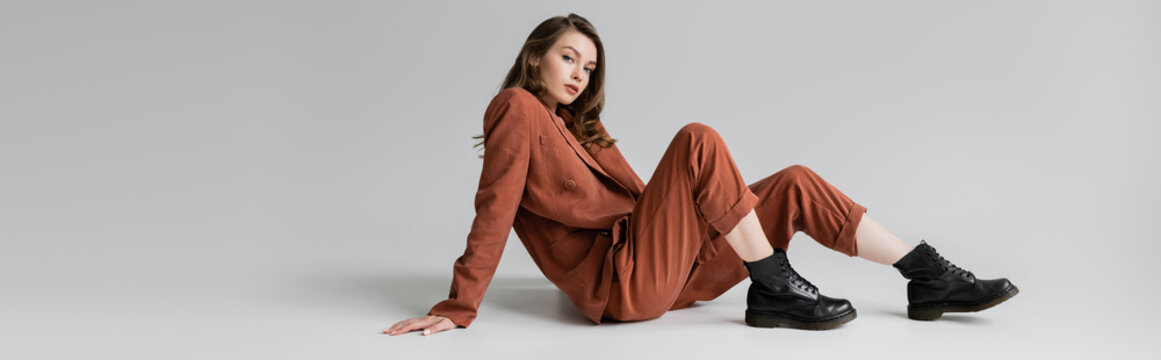
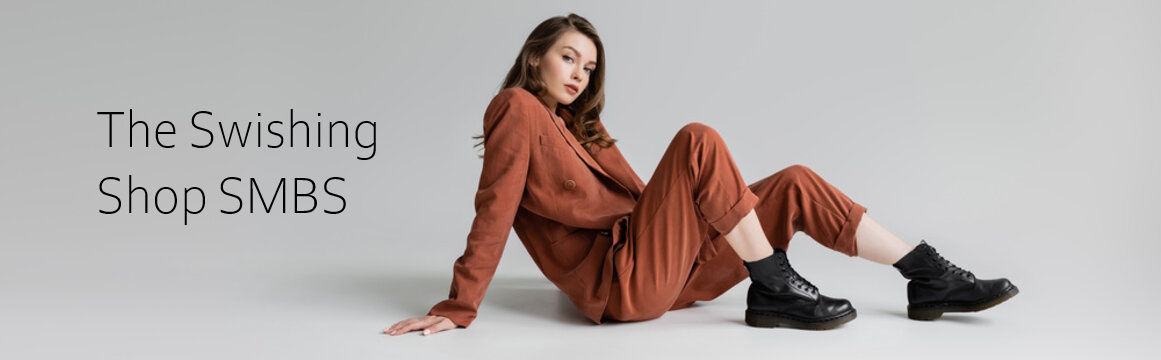
fix navbar + foto

Changed region(s): [[0.093, 0.4889, 0.3101, 0.6111], [0.093, 0.3056, 0.3411, 0.4278], [0.3101, 0.3972, 0.3411, 0.4583]]

diff --git a/index.html b/index.html
@@ -16,66 +16,58 @@
         <!-- navbar is hier -->
         <div class="container-fluid">
             <div class="row">
-                <nav id="kleurNavbar"
 
-                    class="navbar navbar-expand-lg navbar-light">
-                    
-                    <div class="container-fluid">
+                <nav class="navbar navbar-expand-lg navbar-light" id="kleurNavbar">
+        <div class="container-fluid">
+                <a class="swishingTekst navbar-brand" href="../index.html">
+                    <img src="../logos/whiteIcon.png" alt="Logo" width="65" height="42" class="d-inline-block align-text-top">
+                    Swishing
+                </a>
+            <button class="navbar-toggler" type="button" data-bs-toggle="collapse" data-bs-target="#navbarSupportedContent" aria-controls="navbarSupportedContent" aria-expanded="false" aria-label="Toggle navigation">
+                <span class="navbar-toggler-icon"></span>
+            </button>
+            <div class="collapse navbar-collapse" id="navbarSupportedContent">
+                <ul class="navbar-nav me-auto mb-2 mb-lg-0">
+                    <li class="cooleKnop nav-item">
+                        <a class="nav-link active" aria-current="page" href="../index.html">Home</a>
+                    </li>
+                    <li class="cooleKnop nav-item">
+                        <a class="nav-link active" aria-current="page" href="../html/producten.html">Producten</a>
+                    </li>
+                    <li class="cooleKnop nav-item">
+                        <a class="nav-link active" aria-current="page" href="../html/about.html">Over ons</a>
+                    </li>
+                    <li class="cooleKnop nav-item">
+                        <a class="nav-link active" aria-current="page" href="../html/contact.html">Contact</a>
+                    </li>
+                    <li class="cooleKnop nav-item">
+                        <a href="./html/winkelkar.html">
+                            <svg xmlns="http://www.w3.org/2000/svg" width="28" height="28" fill="" class="bi bi-cart" viewBox="0 0 16 16">
+                                <path
+                                    d="M0 1.5A.5.5 0 0 1 .5 1H2a.5.5 0 0 1 .485.379L2.89 3H14.5a.5.5 0 0 1 .491.592l-1.5 8A.5.5 0 0 1 13 12H4a.5.5 0 0 1-.491-.408L2.01 3.607 1.61 2H.5a.5.5 0 0 1-.5-.5M3.102 4l1.313 7h8.17l1.313-7zM5 12a2 2 0 1 0 0 4 2 2 0 0 0 0-4m7 0a2 2 0 1 0 0 4 2 2 0 0 0 0-4m-7 1a1 1 0 1 1 0 2 1 1 0 0 1 0-2m7 0a1 1 0 1 1 0 2 1 1 0 0 1 0-2" />
+                            </svg>
+                        </a>
+                    </li>
+                </ul>
+            </div>
+        </div>
+    </nav>
+                    </div>
+                </div>
 
-                        <nav class="navbar bg-body-tertiary">
-                            <div class="container-fluid">
-                                <a class="swishingTekst navbar-brand"
-                                    href="./index.html">
-                                    <img src="./logos/whiteIcon.png" alt="Logo"
-                                        width="65" height="42"
-                                        class="d-inline-block align-text-top">
-                                    Swishing
-                                </a>
-                            </div>
-                        </nav>
-                        <div class="collapse navbar-collapse"
-                            id="navbarSupportedContent">
-                            <ul class="navbar-nav me-auto mb-2 mb-lg-0">
-                                <li class="cooleKnop nav-item">
-                                    <a class="nav-link active"
-                                        aria-current="page"
-                                        href="./index.html">Home</a>
-                                </li>
-                                <li class="cooleKnop nav-item">
-                                    <a class="nav-link active"
-                                        aria-current="page"
-                                        href="./html/producten.html">Producten</a>
-                                </li>
-                                <li class="cooleKnop nav-item">
-                                    <a class="nav-link active"
-                                        aria-current="page"
-                                        href="./html/about.html">Over ons</a>
-                                </li>
-                                <li class="cooleKnop nav-item">
-                                    <a class="nav-link active"
-                                        aria-current="page"
-                                        href="./html/contact.html">Contact</a>
-                                </li>
-                            </ul>
+                <!-- foto staat hier -->
+                <div class="container-fluid">
+                    <div class="row">
+                        <div id="homeFoto">
+                            <img class="position-absolute z-0" id="fotoHp"
+                                src="./fotos/foto2.jpg" alt="mode">
                         </div>
                     </div>
-                </nav>
-            </div>
-        </div>
+                </div>
 
-        <!-- foto staat hier -->
-        <div class="container-fluid">
-            <div class="row">
-                    <div id="homeFoto">
-                        <h1 class="position-relative z-1 m-5">The Swishing Shop</h1>
-                        <img class="position-absolute z-0" id="fotoHp" src="./fotos/foto2.jpg" alt="mode">
-                    </div>
-            </div>
-        </div>
-
-        <script
-            src="https://cdn.jsdelivr.net/npm/bootstrap@5.0.1/dist/js/bootstrap.bundle.min.js"
-            integrity="sha384-gtEjrD/SeCtmISkJkNUaaKMoLD0//ElJ19smozuHV6z3Iehds+3Ulb9Bn9Plx0x4"
-            crossorigin="anonymous"></script>
-    </body>
-</html>
+                <script
+                    src="https://cdn.jsdelivr.net/npm/bootstrap@5.0.1/dist/js/bootstrap.bundle.min.js"
+                    integrity="sha384-gtEjrD/SeCtmISkJkNUaaKMoLD0//ElJ19smozuHV6z3Iehds+3Ulb9Bn9Plx0x4"
+                    crossorigin="anonymous"></script>
+            </body>
+        </html>

diff --git a/style.css b/style.css
@@ -2,18 +2,22 @@
     display: flex;
     justify-content: center;
 }
+
 #kleurNavbar {
     background: RGBA(186, 188, 187);
-        background: linear-gradient(360deg, rgba(186, 188, 187, 1) 0%, rgba(56, 56, 56, 1) 100%);
+    background: linear-gradient(360deg, rgba(186, 188, 187, 1) 0%, rgba(56, 56, 56, 1) 100%);
 }
-#homeFoto{
+
+#homeFoto {
     width: 100vw;
     height: 100vh;
-    background-color: aqua;
+    background: RGBA(213, 214, 216);
+    background: linear-gradient(0deg, rgba(213, 214, 216, 1) 60%, rgba(115, 115, 115, 1) 100%);
     margin: 0%;
     padding: 0;
 }
-#fotoHp{
+
+#fotoHp {
     height: 50%;
     width: 100%;
     margin: 0%;
@@ -47,6 +51,7 @@
     transform: translateY(2px) translateX(1px);
     box-shadow: 0 0 0 0 black;
 }
-.swishingTekst{
+
+.swishingTekst {
     font-size: 23px;
 }
